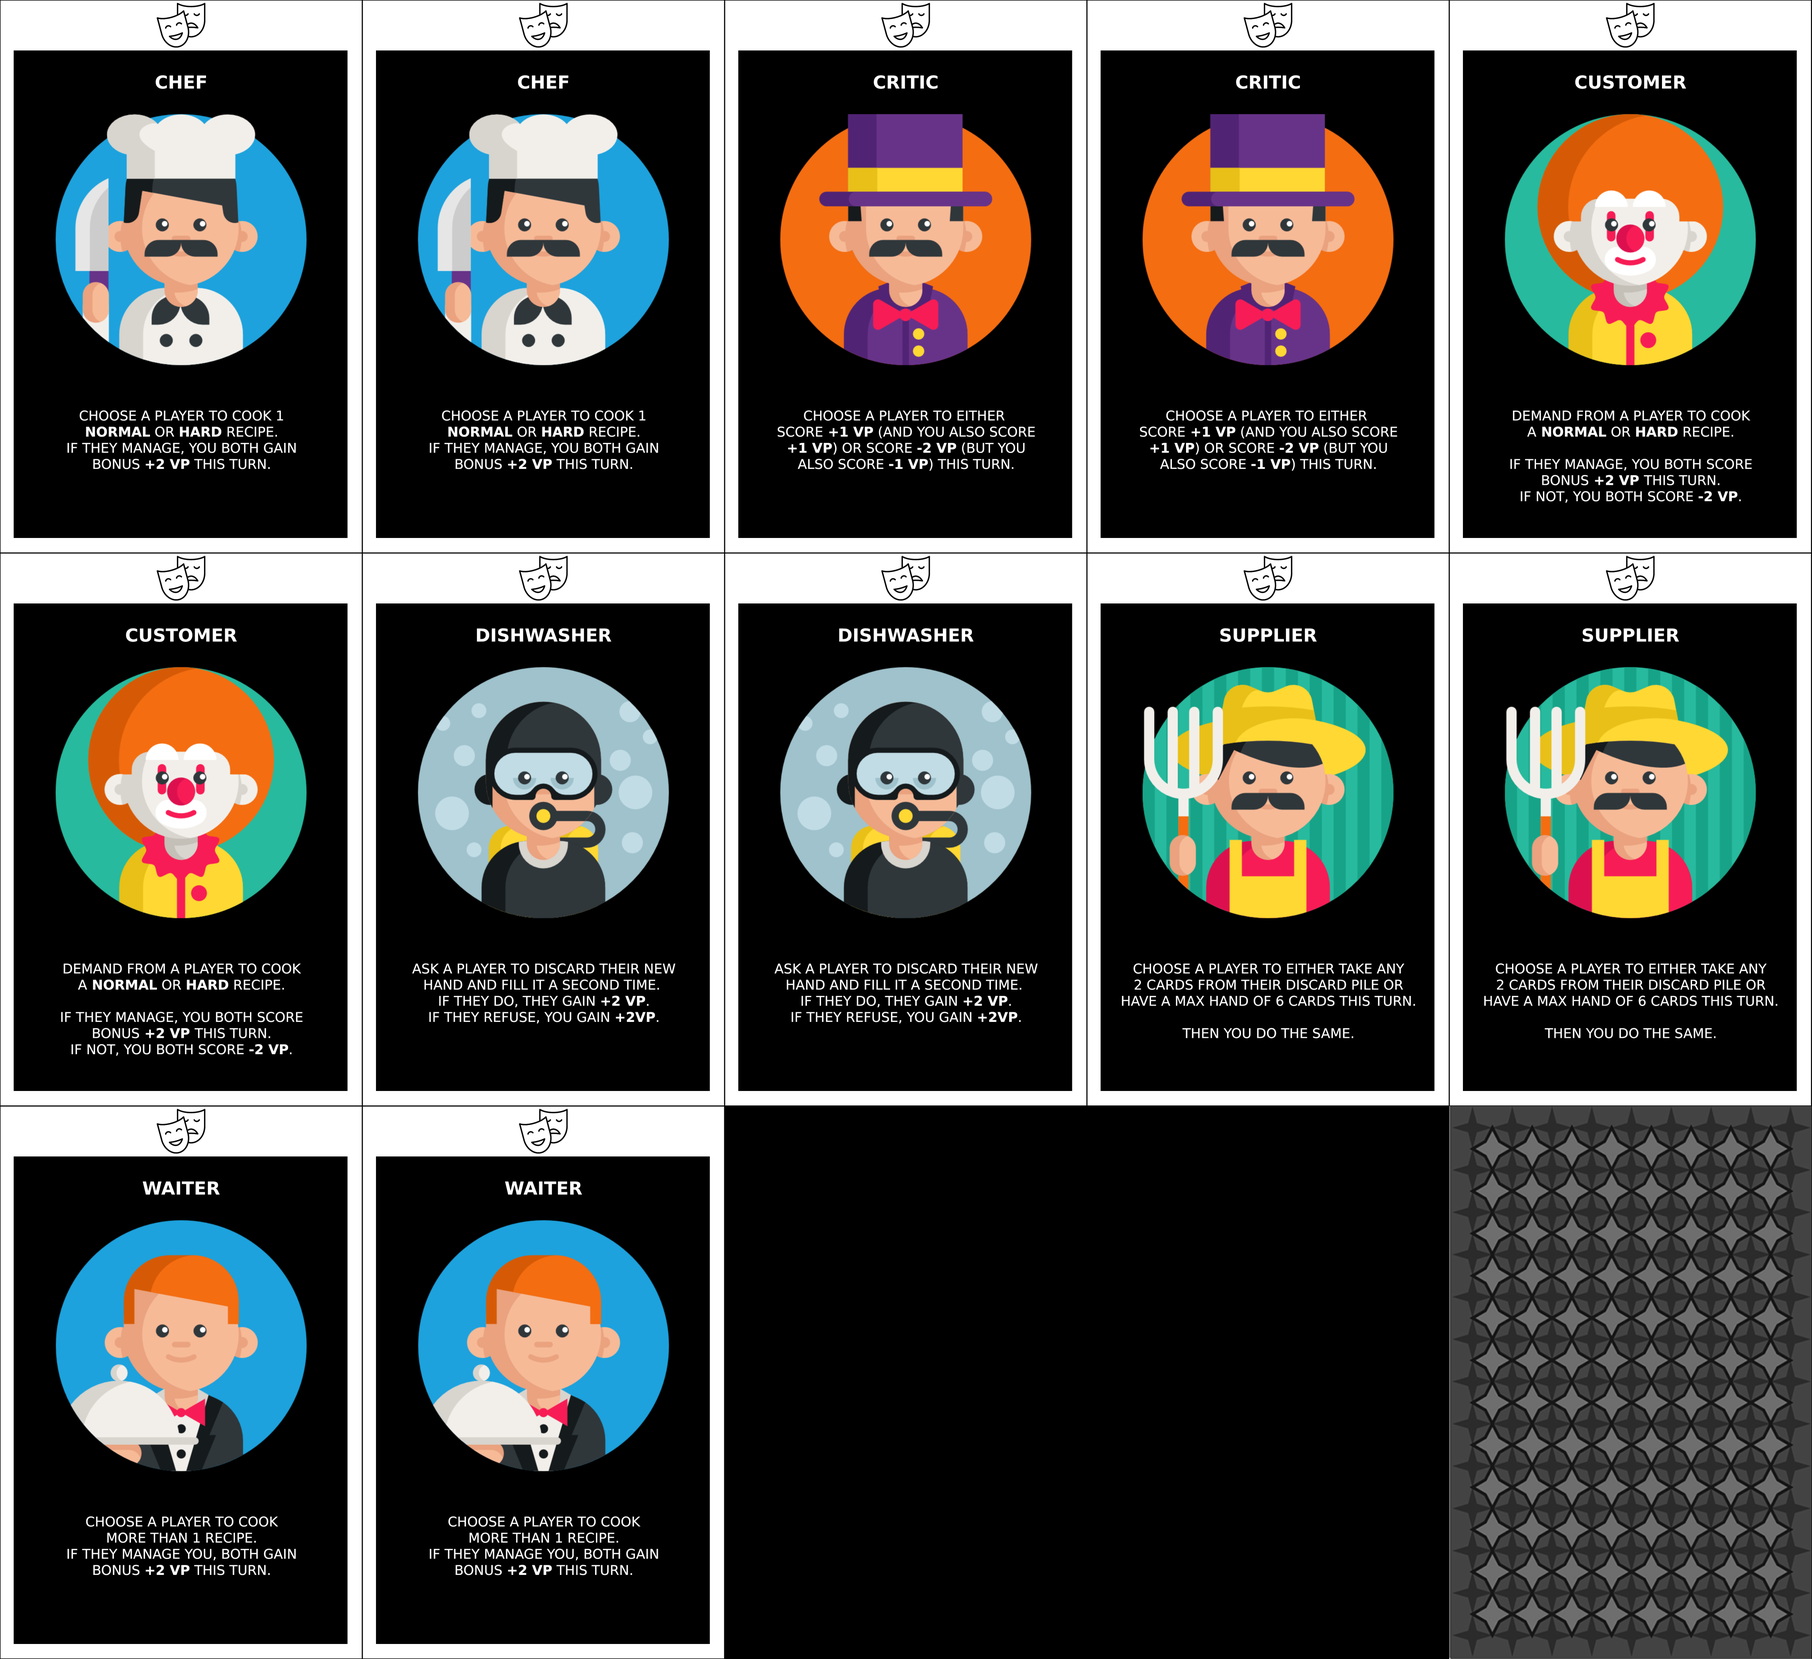
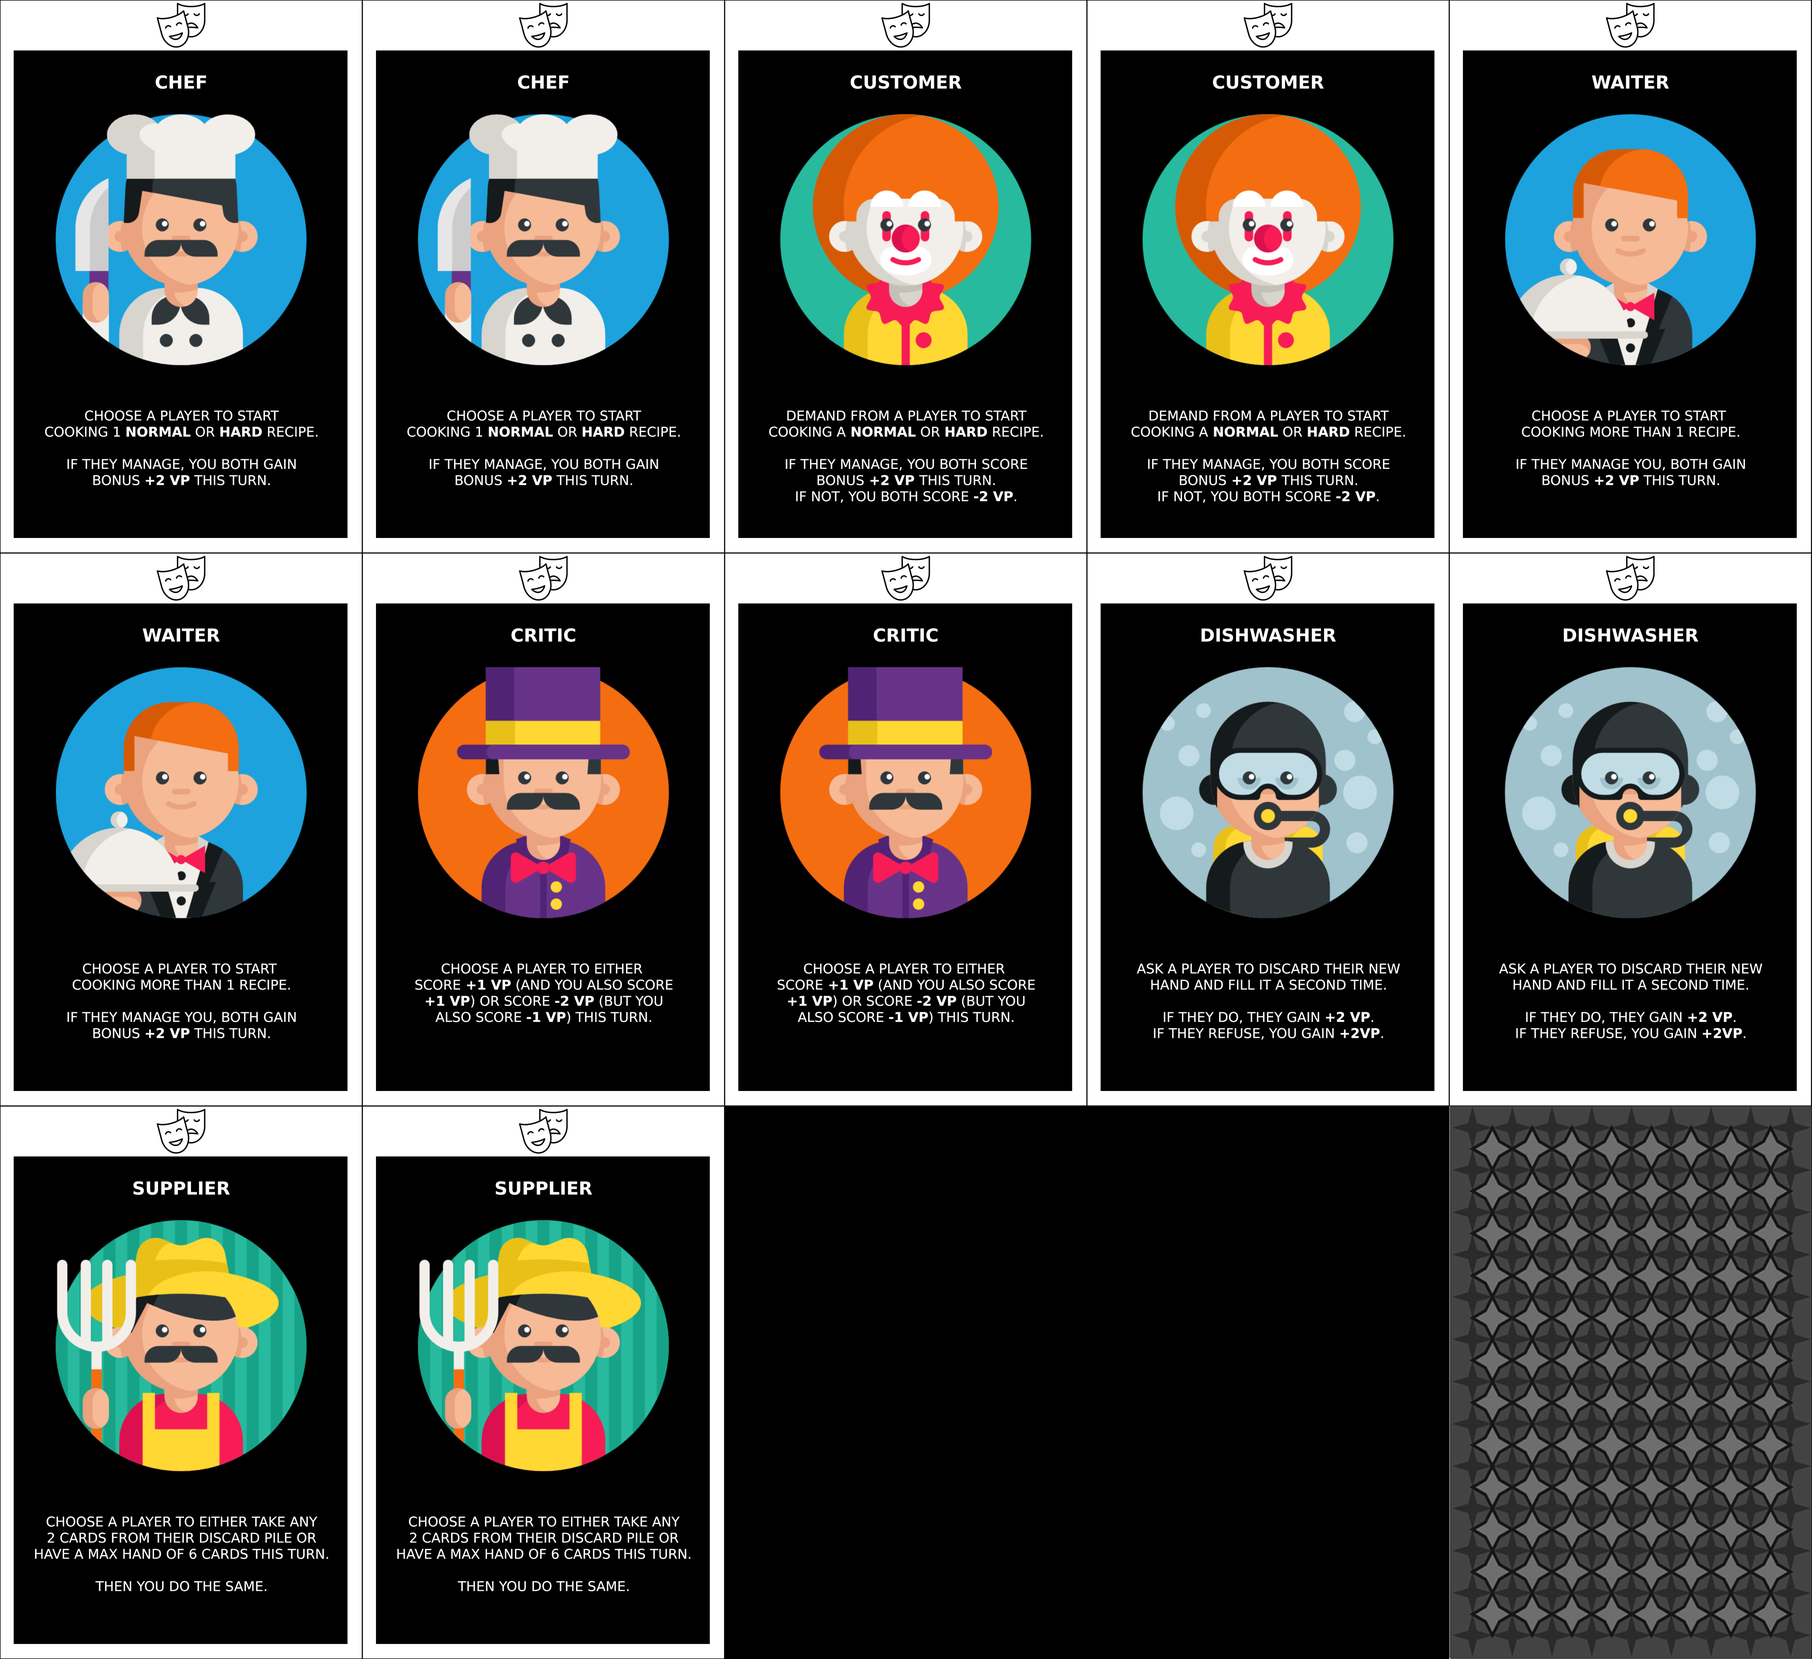
recipe changes

diff --git a/food-court/Rules.md b/food-court/Rules.md
@@ -71,12 +71,14 @@ Then each player takes their turn.
 During their turn, players always start by:
 
 - Discarding up to 3 cards from their hand & drawing cards until they have 8 cards in their hand
+  (reshuffle the discard pile back into the draw deck if needed).
+- Rotate upward any upside-down recipe cards to finish their cooking and make them ready to score.
 
 Then they can:
 
 - Prepare ingredients
 - Play defensive action cards
-- Cook recipes
+- Put recipes for cooking
 - Put utensils in play
 - Place offensive action cards face down in front of opponents.
 
@@ -84,7 +86,6 @@ Finally, if they decide to score VP they should:
 
 - Flip up and resolve the action cards in front of themselves.
 - Score VP 
-
 
 As you can see you can choose to do whatever you want during your turn. The only requirement is to
 fill your hand so you have something to play and to flip up and resolve all action cards in front
@@ -95,7 +96,7 @@ of you before scoring (if you decide to score this turn).
 Scoring happens as follows:
 
 - Score VP for:
-  - recipes cooked
+  - cooked recipes
   - any special ability effects if eligible
   - any utensil cards that match a cooked recipe
   - any met role card condition (if in play).
@@ -130,9 +131,12 @@ so you know if the recipe cooked with it scores extra points for using exact pas
 
 Can be:
 
-- **Easy** - Require 1 **primary** ingredient and grant **+1 VP**.
-- **Normal** - Require 1 **primary** and 1 **secondary** ingredient and grant **+2 VP**.
-- **Hard** - Require 1 **primary** and 2 **secondary** ingredients and grant **+3 VP**.
+- **Easy** - Require 1 **primary** ingredient.
+- **Normal** - Require 1 **primary** and 1 **secondary** ingredient.
+- **Hard** - Require 1 **primary** and 2 **secondary** ingredients.
+
+They grant **1 VP** for each ingredient used so **1 VP** for **easy**, **2 VP** for
+**normal** and **3 VP** for **hard** recipes.
 
 ![image](images/guide_recipe.png)
 
@@ -150,19 +154,12 @@ ingredient to score extra points.
 
 Recipes have the following mechanics:
 
-- **Normal** and **Hard** recipes can be cooked for less but score less VP accordingly. For example,
-you can cook a **hard** recipe with only 1 secondary ingredient (as **normal** recipe) but you also
-score only **2 VP** (as **normal** recipes do). Or cook it only with the primary ingredient as 
-**easy** recipe to score only **1 VP**.
-- **Hard** recipes when cooked with their ingredient requirements fully covered make all other 
-recipes cooked in that turn to score extra **1 VP**. For example if you cook 1 **hard** recipe along
-with 2 **easy** recipes that turn, you score extra **2 VP** for the **easy** recipes totalling to
-3 + 1 + 1 + 2 = **7 VP**. This effect stacks so if you cook 2 **hard** recipes along with 1 
-**easy** recipe you score 3 + 3 + 1 + 2 + 2 = **11 VP**.
-- Only recipes that were cooked with their ingredient requirements fully covered participate in win
-condition tracking. For example with the Italy deck if you cook the **normal** recipe "Fettuccine
-Alfredo" with "Fettuccine" as **primary** ingredient only (so as an **easy** recipe) you cannot
-place the "Fettuccine" ingredient card in your win condition tracking area.
+- They first need to be cooked for 1 turn before they can be scored (for more details check the
+[Cook Recipes](#cook-recipes) in the [Main Mechanics](#main-mechanics) section).
+- **Hard** recipes when cooked make all other cooked recipes score extra **1 VP**. For example if 
+you cook 1 **hard** recipe along with 2 **easy** recipes that turn, you score extra **2 VP** for
+the **easy** recipes totalling to 3 + 1 + 1 + 2 = **7 VP**. This effect stacks so if you cook 2 
+**hard** recipes along with 1 **easy** recipe you score 3 + 3 + 1 + 2 + 2 = **11 VP**.
 
 ### Action Cards
 
@@ -176,11 +173,11 @@ Defensive Action Cards are played immediately from the hand like any other cards
 The action cards are as follows (Offensive [O] and Defensive [D]):
 
 - **Ingredients**
-  - [O] Discard Ingredient - Choose 1 prepared (used or unused) ingredient that the opponent should 
+  - [O] Discard Ingredient - Choose 1 prepared unused ingredient that the opponent should 
   discard.
   - [D] Reuse Ingredient - Prepare 1 ingredient card of your choice directly from your discard pile.
 - **Recipes** 
-  - [O] Lose Recipe - Choose 1 cooked recipe of an opponent. Shuffle the recipe card and 1 of its
+  - [O] Lose Recipe - Choose 1 recipe of an opponent. Shuffle the recipe card and 1 of its
   ingredients back into their draw deck. The rest of the recipe ingredients (if any) stay in play.
   - [D] Reuse Recipe - Take 1 recipe card and 1 ingredient card of your choice back from your
   discard pile to your hand.
@@ -196,16 +193,15 @@ The action cards are as follows (Offensive [O] and Defensive [D]):
   they don't have 2 cards in their hand, they instead discard 2 cards from the draw pile.
   - [D] Draw Cards - Draw 2 cards from the draw deck for your hand.
 - **Recipe Scores**
-  - [O] Score Less - Make an opponent's cooked recipe score 1 VP less.
-  - [D] Score More - Make a recipe you cooked score 1 VP more.
-- **Redistribute Cards**
-  - [O] Extract Cards - Ask an opponent to draw 3 random cards directly from their draw pile and
-  discard them.
-  - [D] Restore Cards - Draw 3 random cards from your discard pile to the top of your draw pile. 
+  - [O] Score Less - Make an opponent's recipe score 1 VP less.
+  - [D] Score More - Make a recipe of yours score 1 VP more.
+- **Affect Cooking**
+  - [O] Slow down Cooking - Rotate 1 opponent recipe upside-down (to cook for another turn).
+  - [D] Speed up Cooking - Play 1 recipe card placed upwards (immediately ready for scoring).
 
 - Offensive action cards can only be blocked (so discarded) by a **Block Action** card. Defensive
 action cards cannot be blocked.
-- Any cards you get to add to your hand via action card effect are not subject to the 8 cards limit.
+- Any cards you add to your hand via action card effects are not subject to the 8 cards limit.
 - Players always choose the targets of their action cards when possible! For example, you choose the
 utensil card the opponent should disable, the recipe they should lose, etc. But you cannot choose
 which cards they should discard from their hand or draw/discard cards from their piles instead of
@@ -240,11 +236,11 @@ For each recipe you want to cook you need to:
 
 - choose from the prepared unused ingredient cards.
 - place them in a column with an overlap.
-- put the recipe at the bottom of the column.
+- put the recipe upside-down at the bottom of the column.
 
-The recipe is now counted as cooked, and you can score from it.
-Keep in mind that you are not required to cook normal and hard recipes with their full ingredient
-requirements. Read more about that in the [Recipe Cards](#recipe-cards) section.
+The recipe is now being cooked (you are not able to score from it yet).
+On your next turn you put the recipe card upwards meaning it's ready.
+You can score from it now.
 
 ### Put Utensils
 
@@ -272,18 +268,18 @@ players take their turns. Role cards' abilities cannot be blocked!
 
 The role cards are:
 
-- **Chef** - Choose a player to cook 1 **normal** or **hard** recipe this turn. If they manage you
-and the player both gain **+2 VP**.
-- **Waiter** - Choose a player to cook more than 1 recipe for this turn. If they manage you and the
-player both gain **+2 VP**.
+- **Chef** - Choose a player to start cooking 1 **normal** or **hard** recipe this turn. If they
+manage you and the player both gain **+2 VP**.
+- **Waiter** - Choose a player to start cooking more than 1 recipe for this turn. If they manage
+you and the player both gain **+2 VP**.
 - **Dishwasher** - Ask a player to discard their new hand and fill it a second time. If they do,
 they gain **+2 VP**. If they refuse, you gain **+2 VP**.
 - **Supplier** - Choose a player to either take any 2 cards from their discard pile or to draw 2
 cards less during their turn (so up to 6 card hand max). Then you do the same.
 - **Critic** - Grants **+1 VP** to an opponent and **+1 VP** to you or **-2 VP** to an opponent
 and **-1 VP** to you.
-- **Customer** - Demand a player to cook a **normal** or **hard** recipe this turn. If they manage
-you both gain **+2 VP**. If not, you both score **-2 VP**.
+- **Customer** - Demand a player to start cooking a **normal** or **hard** recipe this turn. If
+they manage you both gain **+2 VP**. If not, you both score **-2 VP**.
 
 The mechanics of playing the role cards are as follows:
 
@@ -312,12 +308,8 @@ your new pair of role cards.
 The game ends after the end of the round in which a player reaches 40 VP or meets its Win Condition.
 (end of the round means all player have taken their turns). 
 To determine the winner, calculate the VP of all players (each win condition card is worth 5 VP,
-but if all 4 are present the total bonus is 40 instead of 20 VP).
+but if all 4 are present the total bonus is 30 instead of 20 VP).
 If there is still a tie, the one who most recently cooked in real life wins.
 
 
 ## Additional Notes
-
-- Once their deck is empty, a player shuffles their discard pile to form a new draw pile. This
-happens even when drawing because at all times a player must be able to draw up to a hand of 8 
-cards!

diff --git a/food-court/quick-reference.md b/food-court/quick-reference.md
@@ -18,11 +18,13 @@ Win by either:
 Each round consists of all players taking turns.
 1. **If using Role Cards**, play them first.
 2. **On your turn:**
-   - Discard up to **3 cards** and redraw to **8 cards**.
+   - Discard up to **3 cards** and redraw to **8 cards** (reshuffle discard pile back in draw pile
+   if needed).
+   - Finish any recipe cooking.
    - Perform any of the following:
      - **Play Defensive Action Cards**
      - **Prepare Ingredients**
-     - **Cook Recipes**
+     - **Place Recipes for Cooking**
      - **Play Utensils**
      - **Place Offensive Action Cards** face down
    - And if you decide to score:
@@ -37,7 +39,7 @@ VP are gained for:
 - **Matching Utensils**
 - **Met Role Card Conditions** (if in play)
 
-During scoring you can place 1 win condition card if eligible!
+During scoring, you can place (only) 1 win condition card if eligible!
 
 ## Card Types
 
@@ -52,9 +54,9 @@ During scoring you can place 1 win condition card if eligible!
 - **Easy** (1 Primary) - **+1 VP**
 - **Normal** (1 Primary + 1 Secondary) - **+2 VP**
 - **Hard** (1 Primary + 2 Secondary) - **+3 VP**
-
-**Hard Recipes** fully cooked grant **+1 VP** to all other recipes cooked that turn.  
-Only fully cooked recipes contribute to win conditions and special abilities.
+ 
+**Hard Recipes** grant **+1 VP** to all other recipes cooked that turn.  
+Recipes are initially placed face down to cook and are straightened next turn making them ready.
 
 ### Action Cards
 
@@ -87,7 +89,7 @@ Place ingredient cards in front of you as **prepared but unused**.
 
 1. Choose **prepared ingredients**.
 2. Stack them in a **column**, overlapping.
-3. Place the **recipe card** at the bottom.
+3. Place the **recipe card** at the bottom upside-down to cook.
 
 ### Play Utensils
 
@@ -106,26 +108,22 @@ Place utensil cards in their dedicated stack.
 
 ### Role Abilities
 
-- **Chef** - Grants **+2 VP** to both if chosen player cooks a Normal/Hard recipe.
-- **Waiter** - Grants **+2 VP** to both if chosen player cooks **multiple** recipes.
+- **Chef** - Grants **+2 VP** to both if chosen player starts cooking a Normal/Hard recipe.
+- **Waiter** - Grants **+2 VP** to both if chosen player starts cooking **multiple** recipes.
 - **Dishwasher** - Forces player to redraw hand for **+2 VP**. Gain them yourself if they decline.
 - **Supplier** - Grants both **card retrieval** or **hand size of 6** 
 - **Critic** - Grants both +1/+1 VP or -2/-1 VP.
-- **Customer** - Grants **+2 VP** to both if chosen player cooks a Normal/Hard recipe or **-2 VP**
-to both if they don't.
+- **Customer** - Grants **+2 VP** to both if chosen player starts cooking a Normal/Hard recipe or 
+**-2 VP** to both if they don't.
 
 ## Winning the Game
 
 The game ends at the **end of the round** where a player reaches **40 VP** or meets their 
 **Win Condition**.
 
-- Win Condition cards count as **5 VP each** (but max **40 VP** for all 4 cards).
+- Win Condition cards count as **5 VP each** (but max **30 VP** for all 4 cards).
 - If tied, the most recent player to **cook in real life** wins.
 
 ## Additional Notes
 
-- If your deck runs out, **shuffle your discard pile** to create a new draw pile (players must
-always be able to **refill their hand to 8 cards** when drawing).
-
 Enjoy the competition and may the best restaurant win!
-

diff --git a/food-court/Decks.md b/food-court/Decks.md
@@ -25,33 +25,31 @@ grant bonus VP as follows: **normal** recipes grant **+1 VP**; **hard** recipes 
 
 - Utensil Cards (3)
 - Ingredient Cards (26)
-  - Primary (14):
+  - Primary (13):
     - Spaghetti (2)
-    - Fettuccine (2)
-    - Tagliatelle (2)
-    - Lasagna Sheets (2)
-    - Ravioli (2)
+    - Fettuccine (3)
+    - Tagliatelle (3)
+    - Lasagna Sheets (3)
     - Penne (2)
-    - Gnocchi (2)
-  - Secondary (9)
+  - Secondary (10)
   - Optional (3):
     - Basil
     - Balsamic Vinegar
     - Parmigiano
 - Recipe Cards (14):
   - Easy Recipes (4)
-    - Marinara [kitchenware]
-    - Quattro Formaggi [cookware]
-    - Napoletana [tableware]
-    - Capricciosa [kitchenware]
+    - Farfalle al Salmone [kitchenware]
+    - Fusilli Caprese [cookware]
+    - Rigatoni alla Gricia [tableware]
+    - Cannelloni Ricotta e Spinaci [kitchenware]
   - Normal Recipes (7)
     - Spaghetti Carbonara (Spaghetti) [cookware]
     - Fettuccine Alfredo (Fettuccine) [tableware]
     - Lasagna Verde (Lasagna Sheets) [kitchenware]
     - Tagliatelle alla Bolognese (Tagliatelle) [cookware]
-    - Gnocchi alla Sorrentina (Gnocchi) [tableware]
+    - Cacio e Pepe (Spaghetti) [tableware]
     - Penne all’Arrabbiata (Penne) [kitchenware]
-    - Ravioli Burro e Salvia (Ravioli) [cookware]
+    - Penne al Pesto (Penne) [cookware]
   - Hard Recipes (3)
     - Lasagna al Forno (Lasagna Sheets) [tableware]
     - Fettuccine ai Porcini e Tartufo (Fettuccine) [kitchenware]
@@ -64,7 +62,7 @@ grant bonus VP as follows: **normal** recipes grant **+1 VP**; **hard** recipes 
 
 - **Special Ability** - Adjacent recipes from a 4-course meal cooked in the same turn grant bonus
 VP as follows: **entrée** + **appetizer** = **+1 VP**; **appetizer** + **main** = **+2 VP**; 
-**main** + **dessert** = **+3 VP**;
+**main** + **dessert** = **+2 VP**;
 - **Win Condition** - Cook a complete 4-course meal in order (entrée, appetizer, main, dessert).
 - **Tracking** - The recipes cards.
 

diff --git a/food-court/Notes.md b/food-court/Notes.md
@@ -26,3 +26,16 @@ you can have a bit more strategy in the game instead of just dumping what you dr
   +2 for matching recipes.
   - recipes can score based on the number of ingredients used in them (i.e. hard recipes can be
   cooked with only 1 (primary) ingredient (like easy recipes) but you then score only 1 VP)
+
+### DATA:
+
+#### v0.6.4
+
+**2 Players**
+
+| Decks           | Duration | Win Condition Cards | Score    | Rounds |
+|-----------------|----------|---------------------|----------|--------|
+| Italy vs France | 28m 33s  | 3 vs 4              | 44 vs 72 | 8      |
+| Italy vs France | 14m 13s  | 2 vs 4              | 27 vs 48 | 5      |
+| China vs India  | 17m 25s  | 4 vs 1              | 73 vs 20 | 6      |
+| China vs India  | 23m 44s  | 2 vs 4              | 40 vs 78 | 9      |

diff --git a/food-court/CHANGELOG.md b/food-court/CHANGELOG.md
@@ -1,5 +1,22 @@
 # Changelog
 
+## [0.7.0]
+
+CHANGES:
+
+* Recipes are now being cooked for one turn (before being ready for scoring).
+  * Action cards are modified to reflect the recipe change.  
+  * Role card descriptions are modified to reflect the recipe change.
+* [Notes](Notes.md) now includes play test data.
+
+BUG FIXES:
+
+* Recipes can no longer be cooked with fewer ingredients than needed.
+* The bonus for a complete Win Condition is again 30 VP.
+* Piazza Romana's deck re-adjusted for 5 primary ingredient types and pizzas were removed.
+* Le Petit Paris' special ability bonus VP adjusted.
+* Jin Long's win condition tracking clarified.
+
 ## [0.6.4]
 
 BUG FIXES:
